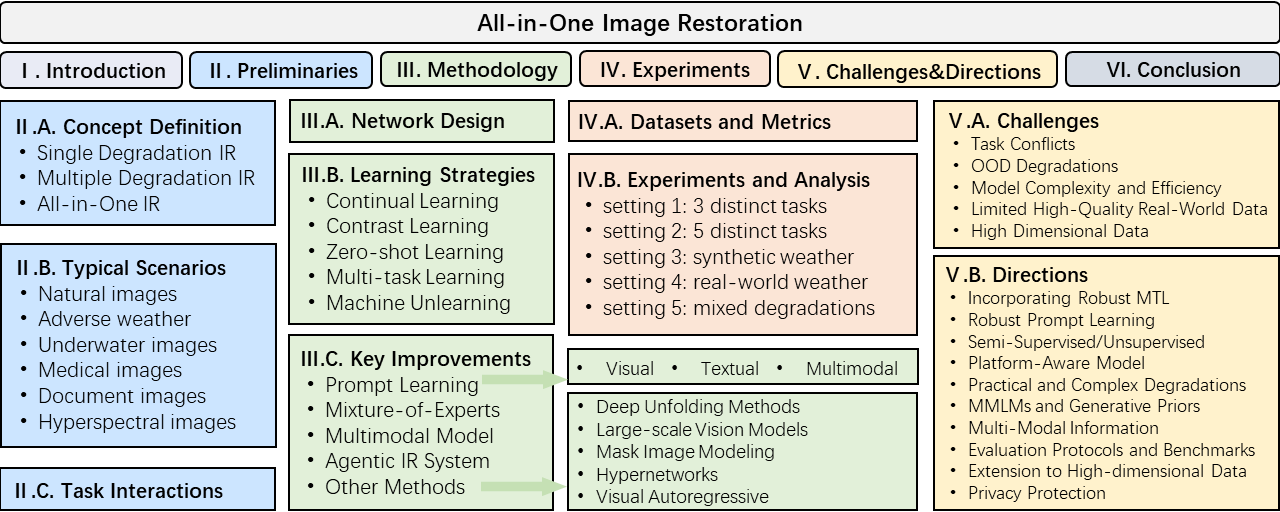
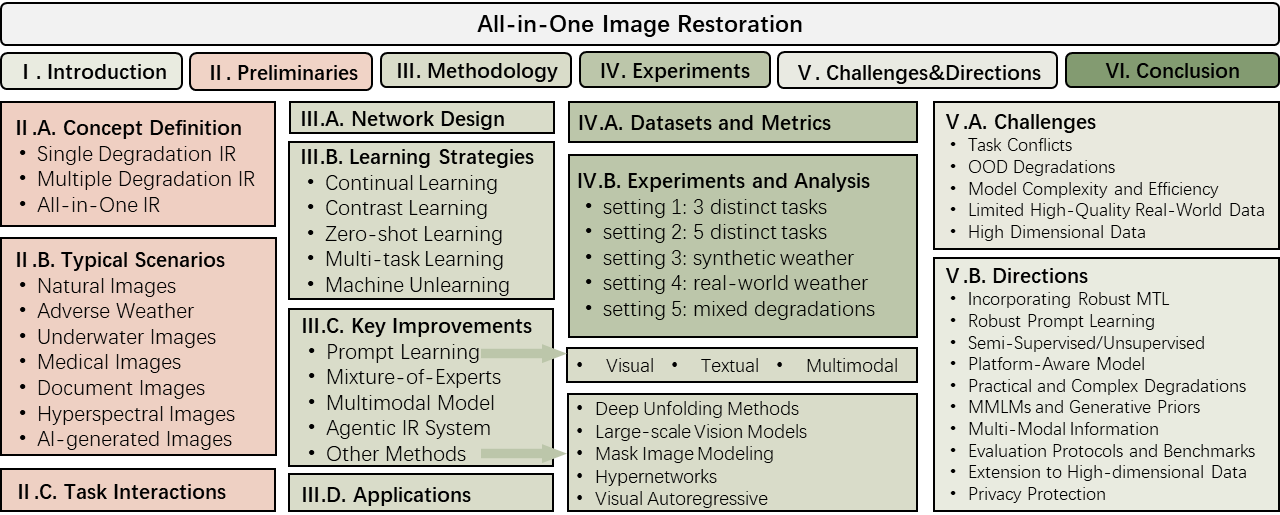
Use latest arXiv v3 taxonomy figure for the survey

diff --git a/index.html b/index.html
@@ -95,7 +95,7 @@
         </article>
         <article class="publication">
           <a class="publication-image" href="https://ieeexplore.ieee.org/document/11123156" aria-label="Read the all-in-one image restoration survey">
-            <img src="assets/home/survey.png" alt="Taxonomy of the all-in-one image restoration survey" width="180" height="72" loading="lazy">
+            <img src="assets/home/survey.png?v=arxiv-v3" alt="Taxonomy of the all-in-one image restoration survey, arXiv version 3" width="180" height="73" loading="lazy">
           </a>
           <div class="publication-copy">
             <h3><a href="https://ieeexplore.ieee.org/document/11123156">A Survey on All-in-One Image Restoration: Taxonomy, Evaluation and Future Trends</a></h3>

diff --git a/README.md b/README.md
@@ -5,7 +5,7 @@ Personal academic homepage: <https://harbinzzy.github.io/>.
 
 - `index.html`: biography, contact details, news, selected publications (including MARS), and education.
 - `assets/homepage.css`: responsive academic homepage styles, inspired by [Shuai Tan's homepage](https://tanshuai0219.github.io/).
-- `assets/home/`: author portrait and survey taxonomy from [arXiv:2410.15067v2](https://arxiv.org/html/2410.15067v2), and the UDPNet figure from the author's public research repository.
+- `assets/home/`: author portrait from [arXiv:2410.15067v2](https://arxiv.org/html/2410.15067v2), survey taxonomy (Fig. 1) from the latest [arXiv:2410.15067v3](https://arxiv.org/html/2410.15067v3) (revised August 12, 2025; checked October 11, 2026), and the UDPNet figure from the author's public research repository.
 - `projects/mars.html` and `assets/site.css`: existing MARS project page and its independent styles.
 
 The homepage is static HTML/CSS and is published by the repository's existing GitHub Pages deployment. No build step is required.
